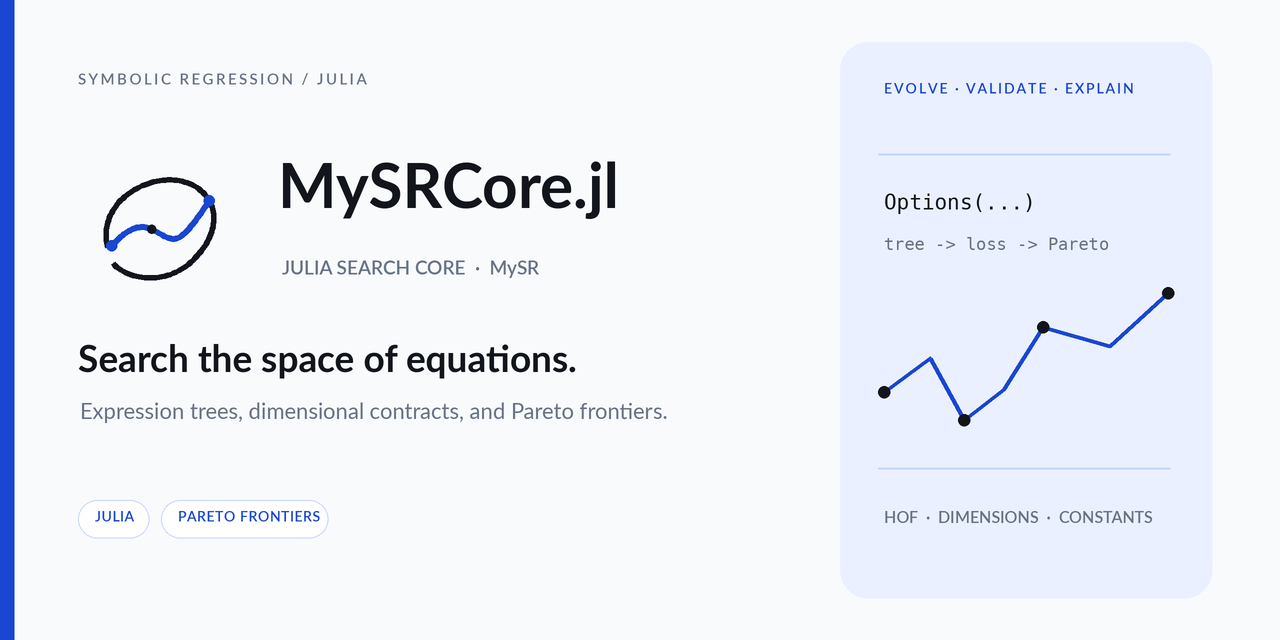
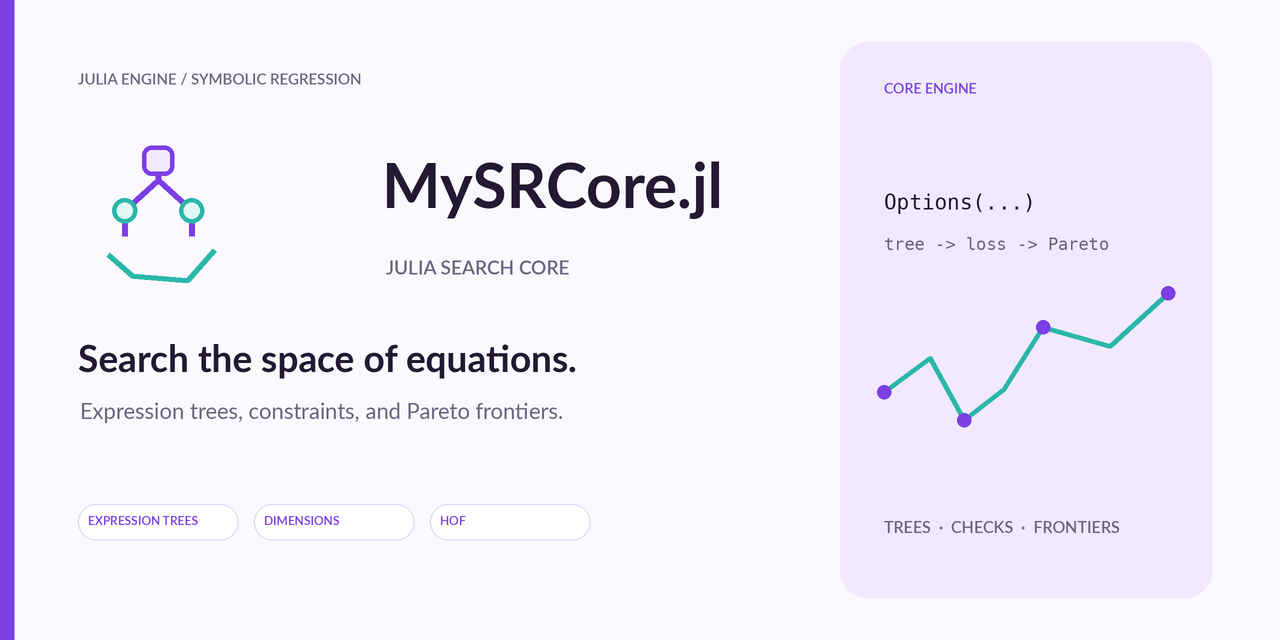
docs: separate MySRCore visual identity

diff --git a/DEVELOPMENT_LOG.md b/DEVELOPMENT_LOG.md
@@ -783,3 +783,10 @@
 - 质量修复：移除无效语义缓存实现，补充输入特征/量纲/数据集上下文元数据，启用温度化
   proposal 权重，修复常数优化预算边界，并避免 beam 排序重复计算 validation cost。
 - 收口：worktree 分支已提交本次实现；不合并、不 push、不删除 worktree，等待发布流程完成。
+
+## 2026-09-27 — Separate MySRCore visual identity assets
+
+- Updated the public presentation layer only: MySRCore.jl now uses a violet/mint expression-tree identity for the Julia search core.
+- Added `mysrcore-mark.svg`, `mysrcore-lockup.svg`, three reusable English icons (`mysrcore-icon-tree.svg`, `mysrcore-icon-pareto.svg`, `mysrcore-icon-dimensions.svg`), refreshed social/result previews, and a color-coded architecture diagram.
+- Added the icon row to the README and documented the palette and asset roles in `assets/README.md`.
+- Removed the unused duplicate `mysr-mark.svg` asset from this repository so the public asset directory no longer presents the frontend mark as the core logo; no runtime or API contract changed.

diff --git a/assets/README.md b/assets/README.md
@@ -1,9 +1,13 @@
 # MySRCore page assets
 
-- `mysr-mark.svg` and `mysrcore-lockup.svg` are the shared MySR family assets.
+- `mysrcore-mark.svg` and `mysrcore-lockup.svg` are the MySRCore.jl Julia search core identity assets.
+- `mysrcore-icon-tree.svg`, `mysrcore-icon-pareto.svg`, and `mysrcore-icon-dimensions.svg` are the reusable backend icons shown in the README.
 - `social-preview.png` is a 1280×640 GitHub social-preview candidate.
 - `social-preview.svg` is the editable vector source for that preview.
 - `result-preview.png` and `result-preview.svg` are illustrative README result views.
 
-The social-preview files are presentation assets; they do not contain benchmark
-results or runtime-generated data.
+The MySRCore visual system uses violet (`#7B3FE4`) for Julia search and package
+identity, mint (`#2BB7A9`) for valid paths and frontiers, and deep plum for
+readable text. All visible copy in these assets is English. The social-preview
+files are presentation assets; they do not contain benchmark results or
+runtime-generated data.

diff --git a/README.md b/README.md
@@ -102,6 +102,14 @@ The figure shows the shape of a low-level result: expression representations
 remain inspectable while loss and complexity expose the Pareto tradeoff. The
 values are synthetic and are not benchmark evidence.
 
+<div align="center">
+  <img src="assets/mysrcore-icon-tree.svg" alt="MySRCore expression tree" width="108">
+  <img src="assets/mysrcore-icon-pareto.svg" alt="MySRCore Pareto frontier" width="108">
+  <img src="assets/mysrcore-icon-dimensions.svg" alt="MySRCore dimensional contract" width="108">
+</div>
+
+<p align="center"><sub>Expression trees&nbsp;&nbsp;·&nbsp;&nbsp;Pareto search&nbsp;&nbsp;·&nbsp;&nbsp;Dimensional contracts</sub></p>
+
 ## Capabilities
 
 | Area | What MySRCore provides |
